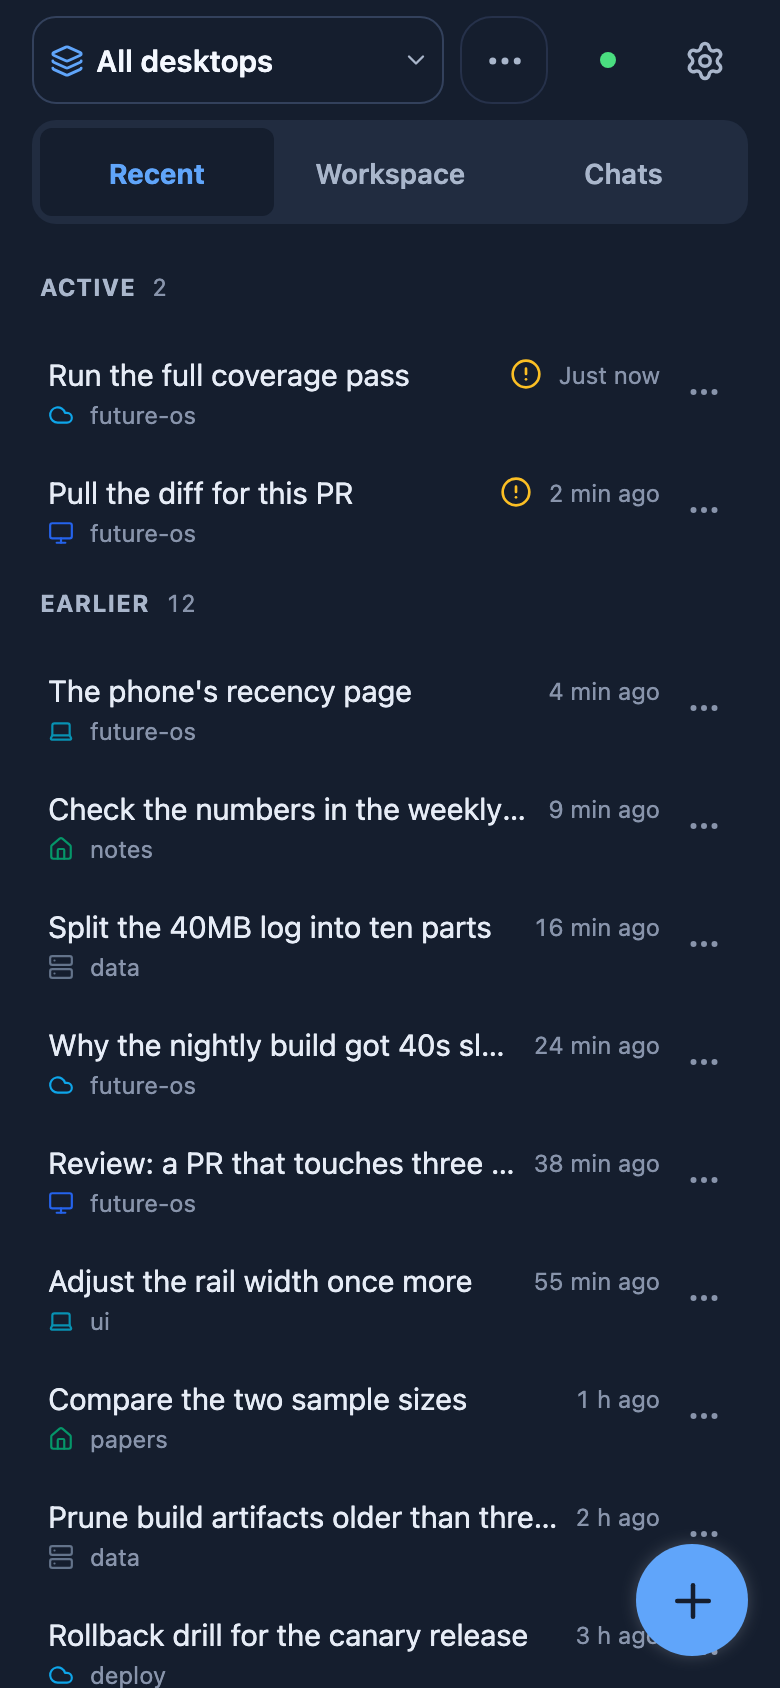
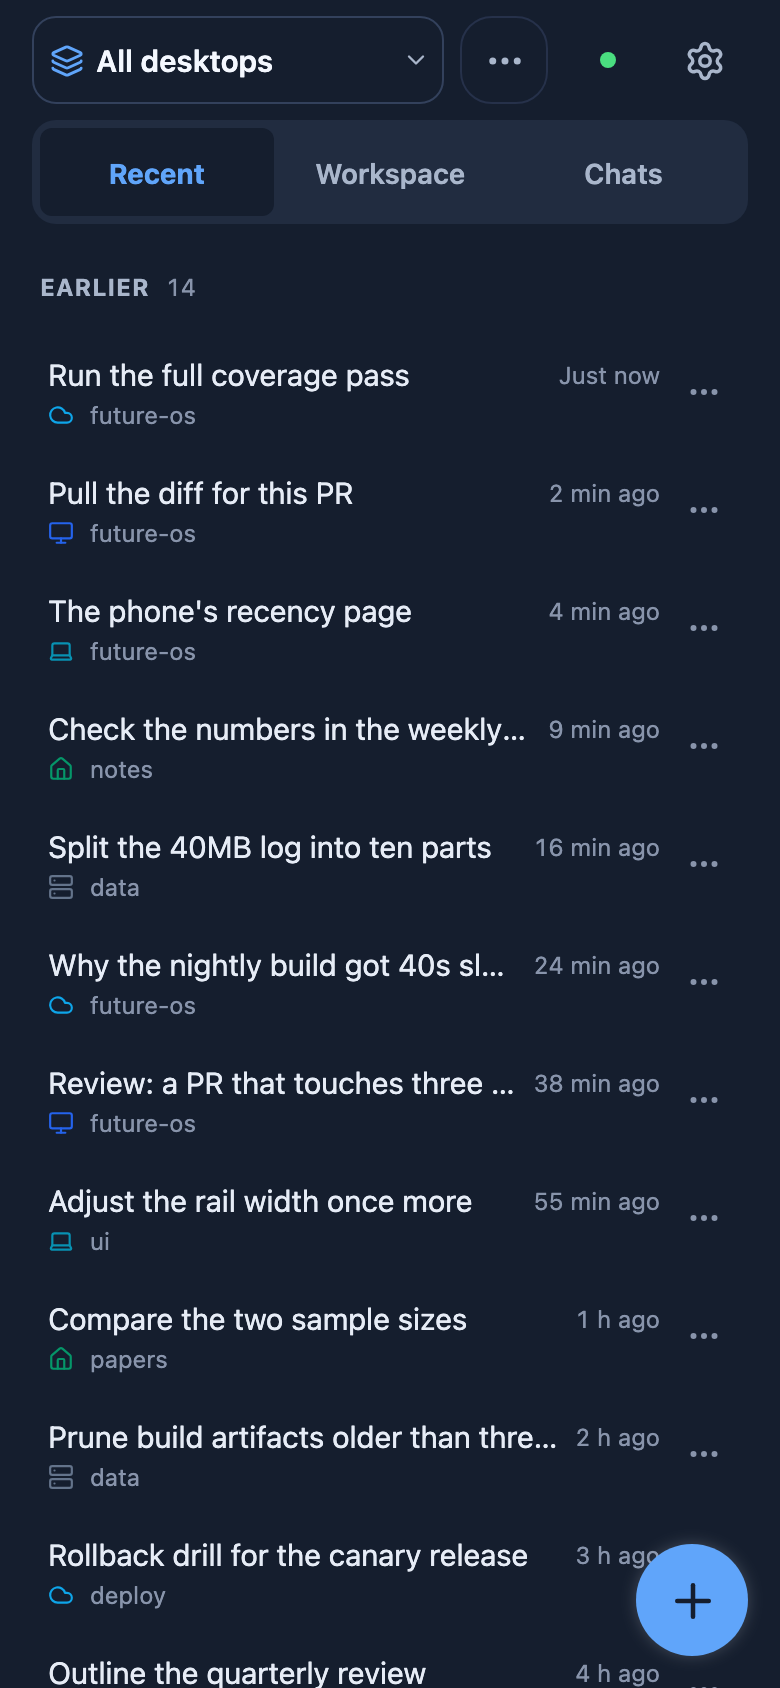
docs(readme,screenshots): a shorter quick start, remote access; fleet shots carry no alert (#1430)
* docs(readme): trim the quick start, and name `auto` where the boundary is chosen

- **Gone:** the two TUI tables (commands, shortcuts — 40+ entries the TUI shows
  itself with `/` and `?`), the installers' SHA-256/SKIP_VERIFY paragraph, the
  `future config` interactive-setup lead-in (custom providers are documented in
  the BYOK block below it), and the TCP "remote / development mode" note.
- **`FUTURE_AGENT_SOCKET` is not mentioned.** One knob for the instance's home,
  `FUTURE_HOME`; the endpoint is derived from it.
- **`auto` is in the Why bullet**: the three tiers plus the one that sandboxes
  and has the model review what would otherwise ask the reader.
- **The sign-in says who it is for**: the official relay. With `--relay URL`
  there is no account in the path and `future auth login` is not needed.
- The TUI row no longer claims Chinese/English chrome.
- Nothing else sends a reader to `future config`; the troubleshooting row points
  at the Configure-a-model section instead.

Checked: check-docs (and --strict-pending).

* chore(readme): drop a scratch script that rode along

`tweak2.py` was a throwaway patch script; its `rm` never ran because the script
exited non-zero on a failed assertion, so `git add -A` picked it up.

* docs(readme): two commands to run it, and remote access as its own section

`Run the Agent, then the terminals` is now exactly that: `future host`, then
`future tui`. The IPC/FUTURE_HOME paragraph, the embedded-Agent lifecycle
[…]

diff --git a/mobile/shot/mock/fleet.ts b/mobile/shot/mock/fleet.ts
@@ -117,8 +117,9 @@ export function fleetWorkspaces(desktopId: string) {
 }
 
 /**
- * One conversation, as the host reports it: which machine, where it lives, when
- * it moved, and — for the two still working — what the run is doing.
+ * One conversation, as the host reports it: which machine, where it lives and
+ * when it moved. No run state: every row on this page is settled (see the note
+ * on the two newest rows).
  *
  * `lastMessageAt` is the recency page's only ordering clock, so the rows are
  * written as minutes-ago and the *machine* they belong to is what interleaves
@@ -131,28 +132,24 @@ interface FleetRow {
   title: string;
   /** Minutes since the last reply. */
   repliedAgo: number;
-  /** Minutes since the conversation opened; only the unsettled rows need it. */
-  openedAgo?: number;
-  status?: "waiting_approval";
 }
 
 const fleetRows: FleetRow[] = zh
   ? [
-    // Both are blocked on the reader, on two different machines — the state the
-    // active stretch exists for, and the one a phone paired with five desktops
-    // most wants to surface. Neither is running or merely `queued`: both of those
-    // draw a spinner (`running = status === "running" || status === "queued"` in
-    // `SessionList`), and a spinner is a different PNG every frame, which a
-    // capture meant to be a baseline cannot be. The stretch ranks by when a
-    // conversation *opened*, so the ages below are not their place in it.
+    // These two used to be blocked on the reader's approval, which is a state
+    // `SessionList` draws as a warning glyph on the row. A photo of "every
+    // machine in one list" is about the merge, and an amber `!` on the newest
+    // rows reads as "something is wrong" — so every row here is an ordinary
+    // finished conversation, and the page's active stretch is empty on purpose.
+    // (Nothing is `running` or `queued` either: those rows spin a loader, and a
+    // loader is a different PNG every frame, which a capture meant to be a
+    // baseline cannot be.)
     {
       machine: "desktop_cloud",
       id: "sess_fleet_coverage",
       workspaceId: "ws_cloud_future_os",
       title: "跑一遍全量覆盖率",
       repliedAgo: 0.5,
-      openedAgo: 3,
-      status: "waiting_approval",
     },
     {
       machine: "desktop_office",
@@ -160,11 +157,9 @@ const fleetRows: FleetRow[] = zh
       workspaceId: "ws_office_future_os",
       title: "把这个 PR 的 diff 拉下来",
       repliedAgo: 2,
-      openedAgo: 7,
-      status: "waiting_approval",
     },
-    // Earlier: newest reply first. Every machine answers, and no two of the
-    // five sit next to each other by accident.
+    // Newest reply first. Every machine answers, and no two of the five sit next
+    // to each other by accident.
     {
       machine: "desktop_lab",
       id: "sess_fleet_recency",
@@ -257,8 +252,6 @@ const fleetRows: FleetRow[] = zh
       workspaceId: "ws_cloud_future_os",
       title: "Run the full coverage pass",
       repliedAgo: 0.5,
-      openedAgo: 3,
-      status: "waiting_approval",
     },
     {
       machine: "desktop_office",
@@ -266,8 +259,6 @@ const fleetRows: FleetRow[] = zh
       workspaceId: "ws_office_future_os",
       title: "Pull the diff for this PR",
       repliedAgo: 2,
-      openedAgo: 7,
-      status: "waiting_approval",
     },
     {
       machine: "desktop_lab",
@@ -358,10 +349,9 @@ const fleetRows: FleetRow[] = zh
 /**
  * One machine's conversations, in the shape `CatalogEntry.sessions` holds.
  *
- * `createdAt` is the session's own start (the recency page ranks a *blocked*
- * conversation by it), so a row's `openedAgo` is what places it in the active
- * stretch — and a row without one falls back to its reply time, which is what
- * every finished conversation there is.
+ * `createdAt` is the session's own start. Nothing on this page reads it (the
+ * active stretch, which ranked by it, is empty), so it is simply a plausible ten
+ * minutes before the last reply rather than a second table to keep in step.
  */
 function sessionsOf(desktopId: string) {
   return fleetRows
@@ -375,13 +365,9 @@ function sessionsOf(desktopId: string) {
         mode: "workspace" as const,
         workspaceId: row.workspaceId,
         workspaceName: workspace?.name ?? null,
-        createdAt: now - (row.openedAgo ?? row.repliedAgo) * minute,
-        // Nothing here is streaming: a run producing output spins a loader, and a
-        // loader is a different PNG every frame (see the note on the two blocked
-        // rows above).
+        createdAt: now - (row.repliedAgo + 10) * minute,
         streaming: false,
         lastMessageAt: now - row.repliedAgo * minute,
-        ...(row.status ? { status: row.status } : {}),
       };
     });
 }

diff --git a/README.md b/README.md
@@ -16,7 +16,6 @@
   <a href="#quick-start">Quick Start</a> •
   <a href="#features">Features</a> •
   <a href="#configure-a-model">Models</a> •
-  <a href="#essential-slash-commands-tui">Commands</a> •
   <a href="#troubleshooting">Troubleshooting</a>
 </p>
 
@@ -32,7 +31,7 @@
 
 ## Why FutureOS
 
-- **Choose the execution boundary.** Configure file-access approvals and OS sandboxing for agent tools. The desktop defaults to Unrestricted (`off`); select Manual or Sandboxed before working with untrusted content. See the [security model](SECURITY.md) and [sandbox guide](docs/wiki/en/Sandbox.md) for defaults and limitations.
+- **Choose the execution boundary.** File-access approvals and OS sandboxing for agent tools, in four tiers: `off`, `manual`, `sandbox` — and **`auto`**, the sandbox with the model reviewing the requests that would otherwise interrupt you. The desktop starts at Unrestricted (`off`); switch to Manual, Sandboxed or `auto` before working with untrusted content. See the [security model](SECURITY.md) and [sandbox guide](docs/wiki/en/Sandbox.md) for defaults and limitations.
 - **One backend, every surface.** A single gRPC agent drives the terminal UI, desktop app, mobile apps, CLI, and IM bots — same sessions, same memory, same skills, wherever you happen to be.
 - **Long runs need engineering, not prompting.** The built-in goal control plane gives durable goals, event-sourced state, and verification gates to runs of 24+ hours — start a research task at night, review the results from your phone in the morning.
 
@@ -41,7 +40,7 @@
 | Category | Details |
 |---|---|
 | **Run anywhere, reach it anywhere** | The agent is one binary that fits wherever the work is — an **embedded board, a phone, a workstation, a GPU server, a cluster** — and every surface reaches it: terminal UI, desktop app, mobile apps (Android & iOS), CLI and IM bots — all on the same sessions, the same memory and the same skills. Pair as many machines as you like — the phone reaches every one of them; the phone↔host channel is **end-to-end encrypted** (Noise handshake, ChaCha20-Poly1305 records), and the relay can be **self-hosted** (`future relay init` / `future relay serve`), so only ciphertext passes through it ([host mode](docs/guide/desktop-host.md), [remote](docs/wiki/en/Remote.md), [relay](docs/guide/self-hosted-relay.md)) |
-| **Terminal UI (TUI)** | A full-screen workbench in the terminal, not a chat log: a session rail (a merged recent list or the workspace tree, foldable), a transcript that folds a reply's process into `▸ 3 tool calls · 2 thoughts` and opens it as a tree, side panels (to-do, usage, skills, files, git), a command palette, mouse selection, drag-resizable panels, six colour palettes, a queue band for prompts typed mid-reply — and the whole interface in **Chinese or English**, following the system or `/lang` ([guide](docs/guide/tui.md)) |
+| **Terminal UI (TUI)** | A full-screen workbench in the terminal, not a chat log: a session rail (a merged recent list or the workspace tree, foldable), a transcript that folds a reply's process into `▸ 3 tool calls · 2 thoughts` and opens it as a tree, side panels (to-do, usage, skills, files, git), a command palette, mouse selection, drag-resizable panels, six colour palettes, and a queue band for prompts typed mid-reply ([guide](docs/guide/tui.md)) |
 | **One phone, many desktops** | The mobile app pairs with several desktops at once: one **recent list merged across them**, each row carrying the machine it lives on, a picker to switch machines, and the ability to take control of a session from the phone while the desktop keeps working ([remote](docs/wiki/en/Remote.md)) |
 | **Configurable Tool Safety** | read, write, edit, shell — approval rules and tiers (`off` / `manual` / `sandbox`, plus `auto` = sandbox with model review of the requests that would have asked, on a FutureOS sign-in); macOS Seatbelt, Linux system Bubblewrap, Windows restricted-token write protection. Availability and guarantees differ by platform ([guide](docs/wiki/en/Sandbox.md)) |
 | **Model Flexibility** | **Bring your own key**: the [built-in catalog](docs/wiki/en/Models.md) covers the major providers, and any OpenAI- or Anthropic-compatible endpoint can be added through `models.json`. Or sign in to the **FutureOS provider** (`future auth login`) and have the keys and model list provisioned for you. Both work side by side, and you choose which models the picker offers ([setup](#configure-a-model)) |
@@ -76,26 +75,20 @@ curl -fsSL https://dl.future-os.cn/install.sh | bash
 iex (irm https://dl.future-os.cn/install.ps1)
 ```
 
+**Android** — the phone app is on the download page, and it pairs with a desktop
+you already run:
+
+<https://future-os.cn/download>
+
+**iOS** has no build on that page yet — build it from source, the app is in this
+repository (`mobile/`).
+
 Step-by-step installation for every platform (desktop app, toolchains, GUI
 packaging) is in the **[Build & Install](docs/guide/build-and-install.md)** guide.
 
-The installers finish by running `future init`.
-
-Both scripts check the downloaded artifact against the release manifest's
-SHA-256 before installing it, including when `FUTUREOS_VERSION` pins a release
-(that release's own `latest.json` is read). An artifact whose checksum cannot be
-established — no manifest, no `sha256` for the platform, or a host without
-`shasum`/`sha256sum` — is refused instead of installed unverified. Only
-`FUTUREOS_SKIP_VERIFY=1` (`$env:FUTUREOS_SKIP_VERIFY = '1'` on Windows) turns
-that check off, and it means installing whatever the mirror served you.
-
 ### Configure a model
 
-The agent needs at least one model provider before it can answer. The interactive setup supports both FutureOS and custom providers:
-
-```bash
-future config
-```
+The agent needs at least one model provider before it can answer.
 
 **FutureOS hosted models** — device-flow sign-in provisions keys and a model list automatically:
 
@@ -161,139 +154,39 @@ Many self-hosted endpoints accept only some thinking levels (often just `low`/`h
 
 ### Run the Agent, then the terminals
 
-The terminal and CLI clients are thin gRPC clients. They connect over
-**per-user local IPC** by default (a Unix-domain socket on macOS/Linux,
-a current-user-only named pipe on Windows). Unix honors `FUTURE_AGENT_SOCKET`;
-otherwise the endpoint always lives under the instance's FutureOS home:
-`~/.future/run/agent.sock` by default, `<FUTURE_HOME>/run/agent.sock` for an
-instance started with its own home (`FUTURE_HOME=DIR`) — see
-[isolated instances](docs/guide/directory-layout.md#running-several-isolated-instances-future_home).
-If the FutureOS home sits on a filesystem that cannot host Unix sockets (e.g.
-NFS), point `FUTURE_HOME` at a directory on a local filesystem.
-
-**The Agent belongs to its host, not to the terminal.** Start a host first — it
-owns the Agent and keeps it running:
+**The Agent belongs to its host, not to the terminal.** Start the host, then open
+as many terminals as you like against it:
 
 ```bash
 future host      # this machine as a FutureOS host: local runs, tasks, and paired remote desktops
+future tui       # terminal UI — attaches to that host
 ```
 
-If a phone or another desktop should reach this machine, sign in **before** that
-command and pair the device — otherwise `future host` serves local work only:
+<p align="center">
+  <img src="docs/tui-screenshot.png" alt="FutureOS terminal UI — session rail grouped by workspace, a reply's process opened as a tree, markdown with a code block and a table" width="820">
+</p>
+
+### Remote access
+
+A phone or another desktop can drive this machine's agent. Pairing it is the one
+step that needs an account, and only on the official relay:
 
 ```bash
 future auth login           # the FutureOS account that pairs your devices
 future remote devices add   # print the invitation a phone or another desktop types in
 ```
 
-`future host` needs **no sign-in** for local work: without an account it serves
-everything locally with your own model providers. The paired remote desktops
-above stay closed until `future auth login` has run — it may also happen later,
-in another terminal, and the host picks the account up without a restart.
-`--relay URL` skips the Future platform entirely; run your own relay instead
-([self-hosted relay](docs/guide/self-hosted-relay.md)).
+The phone↔host channel is **end-to-end encrypted** — a Noise handshake with
+ChaCha20-Poly1305 records — so the relay only carries ciphertext. Without an
+account the host still serves everything local; the paired desktops simply stay
+closed until that sign-in exists, which can also happen later.
 
-Desktop GUI and host mode first attach to a compatible external Agent; when the
-default endpoint is absent and its instance lock is free, they run the complete
-Agent in their own process. Incompatible or locked/unavailable services produce
-an error without starting a second Agent.
-
-Quitting an embedded Desktop stops work from every connected client, including
-CLI/TUI conversations. An attached external Agent stays running; Desktop cancels
-its own submitted runs. See [Desktop Agent lifecycle and recovery](docs/guide/desktop-agent.md).
-
-Then launch the terminal UI from the same `future` command:
-
-```bash
-future tui       # terminal UI
-```
-
-The TUI only ever **attaches** to a serving Agent: it never starts or restarts
-one. With no Agent reachable it says so and names the command to run
-(`future host`, the desktop app, or `future agent`), and if the Agent it was
-attached to goes away it keeps reconnecting and showing that state instead of
-bringing a replacement up. So you can open **as many terminals as you like**
-against one host — and closing one leaves the Agent and the other terminals
-untouched.
-
-Published builds check for updates once in the background after TUI startup.
-A newer version is shown as a local notice with the official installer link;
-nothing is installed automatically. Release builds check the release channel,
-and test/nightly builds check nightly. Local/source builds skip the check.
-Network failures are silent; `future tui --offline` disables the check, and
-non-interactive commands never perform it.
-
-> **Remote / development mode:** pass `--grpc-addr 127.0.0.1:50051` to
-> `future agent` to serve plain TCP instead, and point clients at it with
-> `FUTURE_AGENT_GRPC_ADDR=127.0.0.1:50051`. TCP is opt-in — never expose it
-> beyond a trusted interface.
-
-<p align="center">
-  <img src="docs/tui-screenshot.png" alt="FutureOS terminal UI — session rail grouped by workspace, a reply's process opened as a tree, markdown with a code block and a table" width="820">
-</p>
-
-> `future <cmd>` is the unified entry point for every Rust component: `future agent`,
-> `future tui`, `future channel`, `future goal`. Each runs the same code as the
-> standalone binary of the same name (the `future-*` binaries still exist as
-> build targets — `cargo build -p future-tui` etc. — but are no longer
-> installed by default).
->
-> If connection fails, check Agent discovery, compatibility and instance ownership — see [Troubleshooting](#troubleshooting).
-
-### Essential Slash Commands (TUI)
-
-| Command | Purpose |
-|---|---|
-| `/help` | Show all commands and shortcuts |
-| `/model [name]` | Select / switch model |
-| `/new` | Start a new session |
-| `/sessions` | Browse and switch sessions |
-| `/tree` | Session tree with fork/clone hierarchy |
-| `/fork` | Fork from a chosen message |
-| `/clone` | Clone the current session |
-| `/name <name>` | Set the session name |
-| `/scoped-models` | Configure the model enable/disable list |
-| `/compact` | Compress conversation context |
-| `/status` | Session state, token usage, cost |
-| `/stop` | Abort current generation |
-| `/cancel <run-id>` | Cancel a queued run |
-| `/cwd <dir>` | Change the working directory |
-| `/approve <request-id>` | Approve a pending tool execution |
-| `/reject <request-id>` | Reject a pending tool execution |
-| `/reload` | Reload skills and context files |
-| `/skills` | Browse, install and manage skills |
-| `/providers` | Configure providers and models |
-| `/theme [id]` | Switch the color theme |
-
-Run `/help` in the TUI for the full list (40+ commands).
-
-### Keyboard Shortcuts (TUI)
-
-| Key | Action |
-|---|---|
-| `ctrl+c` | Stop the run in flight (nothing happens when idle) |
-| `ctrl+x` | Quit |
-| `ctrl+n` | New chat |
-| `ctrl+r` | Sessions |
-| `ctrl+d` | Rail: show / focus / hide |
-| `ctrl+p` | Command palette |
-| `ctrl+o` | Model chooser |
-| `ctrl+t` | Thinking effort |
-| `ctrl+s` | Approval mode |
-| `ctrl+l` | Workspaces |
-| `ctrl+f` | Files panel |
-| `ctrl+g` | Git browser |
-| `ctrl+v` | Paste clipboard (image or text) |
-| `ctrl+q` | Preferences (including the shortcut editor) |
-| `?` | Help: the effective keys, grouped |
-| `enter` | Send — while a run is in flight the prompt queues behind it |
-| `ctrl+j` | Newline in the draft |
-| `ctrl+e` / `end` | End of the draft line (`ctrl+a` / `home` go to the start) |
-| `page up` / `page down` | Scroll the conversation |
-| `escape` | Close an overlay; return to the latest output |
-
-Every chord is rebindable in `/preferences`, and `?` always shows what is
-actually in effect.
+**Your own relay.** `--relay URL` takes the Future platform out of the path
+entirely: no account, same protocol, same pairing, same encryption
+([self-hosted relay](docs/guide/self-hosted-relay.md)). Running the host on a
+server is the same command over SSH, with no window or WebView
+([host mode](docs/guide/desktop-host.md)); what a paired device can do is in
+[remote](docs/wiki/en/Remote.md).
 
 ## Troubleshooting
 
@@ -301,7 +194,7 @@ actually in effect.
 |---|---|
 | TUI says no Agent is serving and exits | Start the Agent's host first — `future host` (or the desktop app, or `future agent`). The TUI only attaches; it never starts one. |
 | Client exits with a connection / gRPC error | Run `future doctor`; check Agent startup/version/lock errors and that client/Agent use the same user and IPC environment. See the [Desktop Agent guide](docs/guide/desktop-agent.md) before changing service ownership. Only in explicit TCP mode, check the configured address/port. |
-| Agent replies with an auth / "no model" error | No model configured yet. Run `future config` — see [Configure a model](#configure-a-model). |
+| Agent replies with an auth / "no model" error | No model configured yet — see [Configure a model](#configure-a-model). |
 | Build / install problems | See [Build & Install](docs/guide/build-and-install.md) (platform toolchains, linker, GUI packaging). |
 
 ## Community

diff --git a/docs/guide/screenshots.zh-CN.md b/docs/guide/screenshots.zh-CN.md
@@ -340,9 +340,9 @@ python3 scripts/screenshots/capture.py capture-mobile fleet-picker-zh   # → .s
 python3 scripts/screenshots/capture.py capture-mobile fleet-picker-en   # → .screenshots/home-devices-picker-en.png
 ```
 
-两个列表场景断言的是「合并」本身而不是画面：行序是各台机器自己报的最后回复时间（不是按机器分组）、五台机器都供了行、两个分段标题分别是 2 与 12。`-picker-` 那两个打开列表上方的选择面板，五台机器的**名字**在那里——列表里一行只用图标表示它属于哪台机器，名字写上去会吃掉标题的宽度。
+两个列表场景断言的是「合并」本身而不是画面：行序是各台机器自己报的最后回复时间（不是按机器分组）、五台机器都供了行、唯一的那个分段标题计到十四段。`-picker-` 那两个打开列表上方的选择面板，五台机器的**名字**在那里——列表里一行只用图标表示它属于哪台机器，名字写上去会吃掉标题的宽度。
 
-两次截图里都没有「正在跑」的会话：`running` / `queued` 的行会画一个 `ActivityIndicator`，它的帧每次都不一样，所以 fixture 里两个未结束的会话都是「等我批准」的阻塞态。连跑两次得到逐字节相同的 PNG。
+两次截图里既没有「正在跑」也没有「等我批准」的会话：`running` / `queued` 的行会画 `ActivityIndicator`，`waiting_approval` 的行会画琥珀色的 `CircleAlert`——一张「每台机器的会话都在一张表里」的图两者都不该带（那个叹号会被读成出错，而转圈动画每帧都不一样）。所以每段对话都是已结束的：页面只画一个分段（`14`），场景把两半都断言了——没有活跃分段、任何一行里都没有 `circle-alert` 或琥珀色描边的图标——哪一样回来了都藏不住。连跑两次得到逐字节相同的 PNG。
 
 这四帧是「手机设成深色」的状态（`"appearance": "dark"`），场景也断言了这一点：行所在的底色必须是深色 token 之一、标题必须用深色的 `ink`——如果回落到了浅色主题，截图会失败而不是把错的观感发出去。
 

diff --git a/docs/guide/screenshots.md b/docs/guide/screenshots.md
@@ -577,15 +577,19 @@ python3 scripts/screenshots/capture.py capture-mobile fleet-picker-en   # → .s
 
 The two list scenarios assert the merge rather than the picture: the row order
 is the reply time each machine reported (not the machine), all five machines
-contribute rows, and the two captions count 2 and 12. The `-picker-` pair opens
-the sheet above the list, which is where the five machines are *named* — a row
-names its machine by glyph alone, because a name there would eat the title's
+contribute rows, and the one caption counts all fourteen. The `-picker-` pair
+opens the sheet above the list, which is where the five machines are *named* — a
+row names its machine by glyph alone, because a name there would eat the title's
 width.
 
-Nothing in either capture is still running: a `running` or `queued` row draws an
-`ActivityIndicator`, whose frame differs every capture, so the fixture has both
-unsettled conversations blocked on the reader's approval instead. Two runs
-produce byte-identical PNGs.
+Nothing in either capture is running or blocked. A `running`/`queued` row draws
+an `ActivityIndicator`, and a `waiting_approval` row draws the amber
+`CircleAlert` — a picture of "every machine in one list" should carry neither
+(the alert reads as an error on the newest rows, and a spinner is a different
+PNG every capture). So every conversation is settled: the page draws one stretch
+(`14`), and the scenarios assert both halves of that — no active caption, and no
+`circle-alert` or warning-stroked icon inside any row — so either one cannot
+come back unnoticed. Two runs produce byte-identical PNGs.
 
 The four frames are a phone set to dark (`"appearance": "dark"`), and the
 scenarios assert it: the row's painted surface has to be one of the dark tokens
